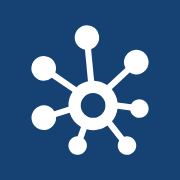
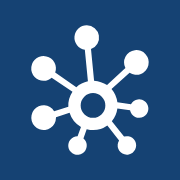
Werk @nldd/design-system bij naar 0.24.0
De knopwaarden inherit-filled en inherit-tinted heten nu
content-filled en content-tinted. Knoppen en iconen kleuren sinds
0.23.0 met --context-content-color in plaats van color; de presentatie
zet die variabelen daarom zelf. Iconen en favicons opnieuw gegenereerd
(nieuw raster van 96x96).

diff --git a/layouts/_partials/nldd-deck-footer.html b/layouts/_partials/nldd-deck-footer.html
@@ -6,17 +6,17 @@
   {{- with .Params.disclaimer }}{{ $onderregel = . }}{{ end }}
   <span class="footer-text"><strong>MijnOverheid Zakelijk</strong>{{ with $onderregel }} · {{ . }}{{ end }}</span>
   <span class="counter" id="counter" aria-hidden="true">1 / 1</span>
-  <nldd-icon-button appearance="inherit-tinted" size="sm" icon="arrow-down-left-arrow-up-right" text="Volledig scherm" data-fullscreen></nldd-icon-button>
-  <nldd-icon-button appearance="inherit-tinted" size="sm" icon="display" text="Presentatiemodus" data-modus></nldd-icon-button>
-  <nldd-icon-button appearance="inherit-tinted" size="sm" icon="note" text="Sprekersweergave" data-spreker></nldd-icon-button>
+  <nldd-icon-button appearance="content-tinted" size="sm" icon="arrow-down-left-arrow-up-right" text="Volledig scherm" data-fullscreen></nldd-icon-button>
+  <nldd-icon-button appearance="content-tinted" size="sm" icon="display" text="Presentatiemodus" data-modus></nldd-icon-button>
+  <nldd-icon-button appearance="content-tinted" size="sm" icon="note" text="Sprekersweergave" data-spreker></nldd-icon-button>
   {{- if ne .Params.download false }}
   {{- $pdf := print .RelPermalink (path.Base .RelPermalink) ".pdf" }}
   {{- /* De link erin is er alleen voor zonder JavaScript: het component heeft
      geen slot voor de inhoud, dus de browser toont hem pas als het niet laadt. */}}
-  <nldd-icon-button appearance="inherit-tinted" size="sm" icon="arrow-down-in-bucket" text="Download als PDF" href="{{ $pdf }}" download="{{ .Title }}.pdf"><a href="{{ $pdf }}" download="{{ .Title }}.pdf">Download als PDF</a></nldd-icon-button>
+  <nldd-icon-button appearance="content-tinted" size="sm" icon="arrow-down-in-bucket" text="Download als PDF" href="{{ $pdf }}" download="{{ .Title }}.pdf"><a href="{{ $pdf }}" download="{{ .Title }}.pdf">Download als PDF</a></nldd-icon-button>
   {{- end }}
-  <nldd-icon-button appearance="inherit-tinted" size="sm" icon="arrow-left" text="Vorige" data-prev></nldd-icon-button>
-  <nldd-icon-button appearance="inherit-tinted" size="sm" icon="arrow-right" text="Volgende" data-next></nldd-icon-button>
+  <nldd-icon-button appearance="content-tinted" size="sm" icon="arrow-left" text="Vorige" data-prev></nldd-icon-button>
+  <nldd-icon-button appearance="content-tinted" size="sm" icon="arrow-right" text="Volgende" data-next></nldd-icon-button>
 </nav>
 <div class="progress" aria-hidden="true"><div class="progress-fill" id="progress"></div></div>
 <p class="deck-melding" id="melding" role="status" hidden></p>

diff --git a/assets/js/nldd-deck.js b/assets/js/nldd-deck.js
@@ -79,12 +79,12 @@ import "@nldd/design-system/button";
     root.innerHTML = `
       <div class="speaker-bar">
         <span class="speaker-timer"><span data-elapsed>0:00</span><span data-duration></span></span>
-        <nldd-icon-button appearance="inherit-tinted" size="sm" icon="arrow-2-counter-clockwise" text="Tijd opnieuw starten" data-reset></nldd-icon-button>
-        <nldd-icon-button appearance="inherit-tinted" size="sm" icon="media-pause" text="Tijd pauzeren" data-pause></nldd-icon-button>
+        <nldd-icon-button appearance="content-tinted" size="sm" icon="arrow-2-counter-clockwise" text="Tijd opnieuw starten" data-reset></nldd-icon-button>
+        <nldd-icon-button appearance="content-tinted" size="sm" icon="media-pause" text="Tijd pauzeren" data-pause></nldd-icon-button>
         <span class="speaker-clock" data-clock></span>
         <span class="speaker-counter" data-position></span>
-        <nldd-icon-button appearance="inherit-tinted" size="sm" icon="arrow-left" text="Vorige" data-prev></nldd-icon-button>
-        <nldd-icon-button appearance="inherit-tinted" size="sm" icon="arrow-right" text="Volgende" data-next></nldd-icon-button>
+        <nldd-icon-button appearance="content-tinted" size="sm" icon="arrow-left" text="Vorige" data-prev></nldd-icon-button>
+        <nldd-icon-button appearance="content-tinted" size="sm" icon="arrow-right" text="Volgende" data-next></nldd-icon-button>
       </div>
       <div class="speaker-current"><h2 class="speaker-label">Nu</h2><div class="speaker-stage" data-current></div></div>
       <div class="speaker-next"><h2 class="speaker-label" data-next-label>Hierna</h2><div class="speaker-stage" data-upcoming></div></div>

diff --git a/content/documenten/presentaties/dia-bibliotheek/index.html b/content/documenten/presentaties/dia-bibliotheek/index.html
@@ -279,7 +279,7 @@ layout: nldd-deck
         <li><span class="ic"><nldd-icon icon="person-text-rectangle"></nldd-icon></span><span><strong>Profieldienst</strong>Je contactgegevens en voorkeuren, één keer voor de hele overheid.</span></li>
         <li><span class="ic"><nldd-icon icon="bell"></nldd-icon></span><span><strong>Notificatiedienst</strong>Een seintje als er iets voor je klaarstaat.</span></li>
       </ul>
-      <nldd-button appearance="inherit-filled" size="lg" text="Open de berichtendemo" end-icon="square-arrow-right-top" href="https://democonsole-test-mpfm-w3h.rig.prd1.gn2.quattro.rijksapps.nl/" target="_blank"></nldd-button>
+      <nldd-button appearance="content-filled" size="lg" text="Open de berichtendemo" end-icon="square-arrow-right-top" href="https://democonsole-test-mpfm-w3h.rig.prd1.gn2.quattro.rijksapps.nl/" target="_blank"></nldd-button>
     </div>
     <figure class="screenshot">
       <img src="{{< beeld "berichtenbox.png" >}}" alt="Schermafbeelding van de berichtenbox in MijnOverheid Zakelijk: berichten van onder meer Belastingdienst, Kadaster, RDW en gemeenten in één lijst.">

diff --git a/content/documenten/presentaties/moza-introductie-kvk/index.html b/content/documenten/presentaties/moza-introductie-kvk/index.html
@@ -218,7 +218,7 @@ duur: 10
         <li><span class="ic"><nldd-icon icon="person-text-rectangle"></nldd-icon></span><span><strong>Profieldienst</strong>Je contactgegevens en voorkeuren, één keer voor de hele overheid.</span></li>
         <li><span class="ic"><nldd-icon icon="bell"></nldd-icon></span><span><strong>Notificatiedienst</strong>Een seintje als er iets voor je klaarstaat.</span></li>
       </ul>
-      <nldd-button appearance="inherit-filled" size="lg" text="Open de berichtendemo" end-icon="square-arrow-right-top" href="https://democonsole-test-mpfm-w3h.rig.prd1.gn2.quattro.rijksapps.nl/" target="_blank"></nldd-button>
+      <nldd-button appearance="content-filled" size="lg" text="Open de berichtendemo" end-icon="square-arrow-right-top" href="https://democonsole-test-mpfm-w3h.rig.prd1.gn2.quattro.rijksapps.nl/" target="_blank"></nldd-button>
     </div>
     <figure class="screenshot">
       <img src="{{< beeld "berichtenbox.png" >}}" alt="Schermafbeelding van de berichtenbox in MijnOverheid Zakelijk: berichten van onder meer Belastingdienst, Kadaster, RDW en gemeenten in één lijst.">

diff --git a/content/documenten/presentaties/van-demo-naar-realisatie/index.html b/content/documenten/presentaties/van-demo-naar-realisatie/index.html
@@ -37,7 +37,7 @@ disclaimer: Het federatief berichtenstelsel en de notificatiedienst zijn in ontw
         <li><span class="ic"><nldd-icon icon="bell"></nldd-icon></span><span>Een nieuw bericht tijdens het inloggen, inclusief een seintje via een e-mail</span></li>
         <li><span class="ic"><nldd-icon icon="cylinder-split-slash"></nldd-icon></span><span>Is een magazijn traag of valt het uit? Dan krijgt de ondernemer een melding en ziet de rest van de berichten gewoon.</span></li>
       </ul>
-      <nldd-button appearance="inherit-filled" size="lg" text="Open de demo" end-icon="square-arrow-right-top" href="https://democonsole-test-mpfm-w3h.rig.prd1.gn2.quattro.rijksapps.nl/" target="_blank"></nldd-button>
+      <nldd-button appearance="content-filled" size="lg" text="Open de demo" end-icon="square-arrow-right-top" href="https://democonsole-test-mpfm-w3h.rig.prd1.gn2.quattro.rijksapps.nl/" target="_blank"></nldd-button>
       <p class="demo-note">De demo opent in een nieuw tabblad. Sluit dat tabblad om terug te gaan naar de presentatie.</p>
     </div>
   </div>

diff --git a/content/documenten/presentaties/beproeving-federatief-berichtenstelsel/index.html b/content/documenten/presentaties/beproeving-federatief-berichtenstelsel/index.html
@@ -110,7 +110,7 @@ disclaimer: Het federatief berichtenstelsel is in ontwikkeling en kan nog verand
         <li>Een nieuw bericht tijdens het inloggen</li>
         <li>Is een magazijn traag of valt het uit? Dan krijgt de ondernemer een melding en ziet de rest van de berichten gewoon.</li>
       </ul>
-      <nldd-button appearance="inherit-filled" size="lg" text="Open de demo" end-icon="square-arrow-right-top" href="https://democonsole-test-mpfm-w3h.rig.prd1.gn2.quattro.rijksapps.nl/" target="_blank"></nldd-button>
+      <nldd-button appearance="content-filled" size="lg" text="Open de demo" end-icon="square-arrow-right-top" href="https://democonsole-test-mpfm-w3h.rig.prd1.gn2.quattro.rijksapps.nl/" target="_blank"></nldd-button>
       <p class="demo-note">De demo opent in een nieuw tabblad. Sluit dat tabblad om terug te gaan naar de presentatie.</p>
     </div>
   </div>

diff --git a/layouts/documenten/presentaties/nldd-deck.html b/layouts/documenten/presentaties/nldd-deck.html
@@ -37,7 +37,7 @@
 {{ .Content }}
   </div>
 </main>
-<nldd-icon-button class="deck-close" appearance="inherit-tinted" icon="dismiss" text="Sluiten" data-close></nldd-icon-button>
+<nldd-icon-button class="deck-close" appearance="content-tinted" icon="dismiss" text="Sluiten" data-close></nldd-icon-button>
 {{ partial "nldd-deck-footer.html" . }}
 {{- $js := resources.Get "js/nldd-deck.js" | js.Build (dict "targetPath" "js/nldd-deck.js" "minify" true) | fingerprint "md5" }}
 <script src="{{ $js.RelPermalink }}"></script>

diff --git a/assets/css/nldd-deck.css b/assets/css/nldd-deck.css
@@ -34,6 +34,8 @@ body {
   margin: 0;
   background: linear-gradient(160deg, var(--bg-start) 0%, var(--bg-end) 100%);
   color: var(--ink);
+  --context-content-color: currentColor;
+  --context-background-color: var(--bg-start);
   font-family: var(--primitives-font-family-sans-serif);
   -webkit-font-smoothing: antialiased;
 }
